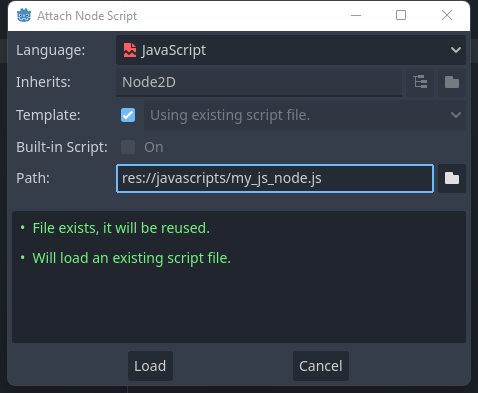
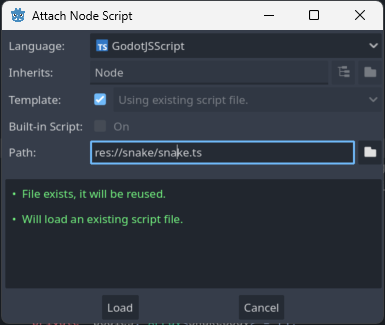
feat: GodotJSScript templates

Changed region(s): [[0.0, 0.0, 1.0, 1.0], [0.2182, 0.2769, 0.6545, 0.3385]]

diff --git a/weaver-editor/templates/templates.gen.h b/weaver-editor/templates/templates.gen.h
@@ -1,0 +1,17 @@
+/* THIS FILE IS GENERATED DO NOT EDIT */
+
+#ifndef _CODE_TEMPLATES_H
+#define _CODE_TEMPLATES_H
+
+#include "core/object/object.h"
+#include "core/object/script_language.h"
+
+static const int TEMPLATES_ARRAY_SIZE = 3;
+
+static const struct ScriptLanguage::ScriptTemplate TEMPLATES[3] = {
+	{ String("CharacterBody2D"), String("Basic Movement"),  String("Classic movement for gravity games (platformer, ...)"),  String("import { _BASE_, ProjectSettings, Input, move_toward } from \"godot\";\n\nconst speed = 300;\nconst jump_velocity = -400;\n\n// Get the gravity from the project settings to be synced with RigidBody nodes.\nconst gravity = <number> ProjectSettings.get_setting(\"physics/2d/default_gravity\");\n\nexport default class _CLASS_ extends _BASE_ {\n_TS__physics_process(delta: number): void {\n_TS__TS_let velocity = this.velocity;\n\n_TS__TS_// Add the gravity.\n_TS__TS_if (!this.is_on_floor()) {\n_TS__TS__TS_velocity.y += gravity * delta;\n_TS__TS_}\n\n_TS__TS_// Handle Jump.\n_TS__TS_if (Input.is_action_just_pressed(\"ui_accept\") && this.is_on_floor()) {\n_TS__TS__TS_velocity.y = jump_velocity;\n_TS__TS_}\n\n_TS__TS_// Get the input direction and handle the movement/deceleration.\n_TS__TS_// As good practice, you should replace UI actions with custom gameplay actions.\n_TS__TS_let direction = Input.get_vector(\"ui_left\", \"ui_right\", \"ui_up\", \"ui_down\");\n_TS__TS_if (Vector2.EQUAL(direction, Vector2.ZERO)) {\n_TS__TS__TS_velocity.x = direction.x * speed;\n_TS__TS_} else {\n_TS__TS__TS_velocity.x = move_toward(this.velocity.x, 0, speed);\n_TS__TS_}\n\n_TS__TS_this.velocity = velocity;\n_TS__TS_this.move_and_slide();\n_TS_}\n}\n") },
+	{ String("Node"), String("Default"),  String("Base template for Node with default Godot cycle methods"),  String("import { _BASE_ } from \"godot\";\nimport { onready } from \"jsb/jsb.core\";\n\n\nexport default class _CLASS_ extends _BASE_ {\n_TS_// Called when the node enters the scene tree for the first time.\n_TS__ready(): void {\n\n_TS_}\n\n_TS_// Called every frame. 'delta' is the elapsed time since the previous frame.\n_TS__process(delta: number): void {\n_TS_}\n}\n") },
+	{ String("Object"), String("Empty"),  String("Empty template suitable for all Objects"),  String("import { _BASE_ } from \"godot\";\n\nexport default class _CLASS_ extends _BASE_ {\n}\n") },
+};
+
+#endif

diff --git a/weaver/jsb_gdjs_lang.cpp b/weaver/jsb_gdjs_lang.cpp
@@ -9,6 +9,9 @@
 #include "jsb_gdjs_script.h"
 #include "editor/editor_settings.h"
 
+#if JSB_GODOT_TOOLS
+#include "../weaver-editor/templates/templates.gen.h"
+#endif
 GodotJSScriptLanguage* GodotJSScriptLanguage::singleton_ = nullptr;
 
 GodotJSScriptLanguage::GodotJSScriptLanguage()
@@ -157,7 +160,12 @@ Ref<Script> GodotJSScriptLanguage::make_template(const String& p_template, const
 {
     Ref<GodotJSScript> spt;
     spt.instantiate();
-    spt->set_source_code(p_template);
+	String processed_template = p_template;
+    processed_template = processed_template.replace("_BASE_", p_base_class_name)
+                                 .replace("_CLASS_SNAKE_CASE_", p_class_name.to_snake_case().validate_identifier())
+                                 .replace("_CLASS_", p_class_name.to_pascal_case().validate_identifier())
+                                 .replace("_TS_", jsb::internal::Settings::get_indentation());
+    spt->set_source_code(processed_template);
     return spt;
 }
 
@@ -165,13 +173,11 @@ Vector<ScriptLanguage::ScriptTemplate> GodotJSScriptLanguage::get_built_in_templ
 {
     Vector<ScriptTemplate> templates;
 #ifdef TOOLS_ENABLED
-    //TODO load templates from disc
-    ScriptTemplate st;
-    st.content = "// template\nexport default class {\n}\n";
-    st.description = "a javascript boilerplate";
-    st.inherit = p_object;
-    st.name = "Basic Class Template";
-    templates.append(st);
+    for (int i = 0; i < TEMPLATES_ARRAY_SIZE; i++) {
+        if (TEMPLATES[i].inherit == p_object) {
+            templates.append(TEMPLATES[i]);
+        }
+    }
 #endif
     return templates;
 }

diff --git a/weaver-editor/jsb_export_plugin.cpp b/weaver-editor/jsb_export_plugin.cpp
@@ -1,6 +1,7 @@
 #include "jsb_export_plugin.h"
 #include "../internal/jsb_macros.h"
 #include "../internal/jsb_path_util.h"
+#include "../internal/jsb_settings.h"
 
 namespace jsb
 {
@@ -44,10 +45,23 @@ void GodotJSExportPlugin::_export_file(const String& p_path, const String& p_typ
     {
         const String compiled_script_path = jsb::internal::PathUtil::convert_to_internal_path(p_path);
         Error err;
-        const Vector<uint8_t> data = FileAccess::get_file_as_bytes(compiled_script_path, &err);
+        const Vector<uint8_t> compiled_script_data = FileAccess::get_file_as_bytes(compiled_script_path, &err);
         if (err == OK)
         {
-            add_file(compiled_script_path, data, false);
+            add_file(compiled_script_path, compiled_script_data, false);
+            if (jsb::internal::Settings::is_packaging_with_source_map())
+            {
+                const String source_map_path = compiled_script_path + ".map";
+                const Vector<uint8_t> source_map_data = FileAccess::get_file_as_bytes(source_map_path, &err);
+                if (err == OK)
+                {
+                    add_file(source_map_path, source_map_data, false);
+                }
+                else
+                {
+                    JSB_LOG(Warning, "can't read the sourcemap file from %s, please ensure that 'tsc' has being executed properly.", source_map_path);
+                }
+            }
         }
         else
         {

diff --git a/weaver-editor/templates/CharacterBody2D/basic_movement.cs b/weaver-editor/templates/CharacterBody2D/basic_movement.cs
@@ -1,0 +1,37 @@
+// meta-description: Classic movement for gravity games (platformer, ...)
+
+import { _BASE_, ProjectSettings, Input, move_toward } from "godot";
+
+const speed = 300;
+const jump_velocity = -400;
+
+// Get the gravity from the project settings to be synced with RigidBody nodes.
+const gravity = <number> ProjectSettings.get_setting("physics/2d/default_gravity");
+
+export default class _CLASS_ extends _BASE_ {
+    _physics_process(delta: number): void {
+        let velocity = this.velocity;
+
+        // Add the gravity.
+        if (!this.is_on_floor()) {
+            velocity.y += gravity * delta;
+        }
+
+        // Handle Jump.
+        if (Input.is_action_just_pressed("ui_accept") && this.is_on_floor()) {
+            velocity.y = jump_velocity;
+        }
+
+        // Get the input direction and handle the movement/deceleration.
+        // As good practice, you should replace UI actions with custom gameplay actions.
+        let direction = Input.get_vector("ui_left", "ui_right", "ui_up", "ui_down");
+        if (Vector2.EQUAL(direction, Vector2.ZERO)) {
+            velocity.x = direction.x * speed;
+        } else {
+            velocity.x = move_toward(this.velocity.x, 0, speed);
+        }
+
+        this.velocity = velocity;
+        this.move_and_slide();
+    }
+}

diff --git a/internal/jsb_settings.cpp b/internal/jsb_settings.cpp
@@ -58,4 +58,20 @@ namespace jsb::internal
         return "res://" + get_jsb_out_dir_name();
     }
 
+    String Settings::get_indentation()
+    {
+#if JSB_GODOT_TOOLS
+        if (Engine::get_singleton()->is_editor_hint())
+        {
+            // use_space_indentation
+            if (!!EDITOR_GET("text_editor/behavior/indent/type"))
+            {
+                const int indent_size = EDITOR_GET("text_editor/behavior/indent/size");
+                return String(" ").repeat(indent_size);
+            }
+        }
+#endif
+        return "\t";
+    }
+
 }

diff --git a/weaver-editor/templates/Node/default.cs b/weaver-editor/templates/Node/default.cs
@@ -1,0 +1,16 @@
+// meta-description: Base template for Node with default Godot cycle methods
+
+import { _BASE_ } from "godot";
+import { onready } from "jsb/jsb.core";
+
+
+export default class _CLASS_ extends _BASE_ {
+    // Called when the node enters the scene tree for the first time.
+    _ready(): void {
+
+    }
+
+    // Called every frame. 'delta' is the elapsed time since the previous frame.
+    _process(delta: number): void {
+    }
+}

diff --git a/internal/jsb_settings.h b/internal/jsb_settings.h
@@ -20,6 +20,8 @@ namespace jsb::internal
 
         // get the res path for `outDir`, it's equivalent to `res://` + get_jsb_out_dir_name()
         static String get_jsb_out_res_path();
+
+        static String get_indentation();
     };
 }
 

diff --git a/weaver-editor/templates/Object/empty.cs b/weaver-editor/templates/Object/empty.cs
@@ -1,0 +1,6 @@
+// meta-description: Empty template suitable for all Objects
+
+import { _BASE_ } from "godot";
+
+export default class _CLASS_ extends _BASE_ {
+}

diff --git a/docs/godotjs_scripts.md b/docs/godotjs_scripts.md
@@ -141,6 +141,12 @@ export class CyclicClass2 {
 WRITE SOMETHING HERE
 
 
+## Use External Editor
+It's recommended to use external editor to write typescripts. Change the settings in `Editor > Edtior Settings > Text Editor > Use External Editor`, and replace the `Exec Path` with the code editor installed locally:
+
+![use_external_editor](./assets/use_external_editor.png)
+
+
 ---
 
 [Go Back](../README.md)
